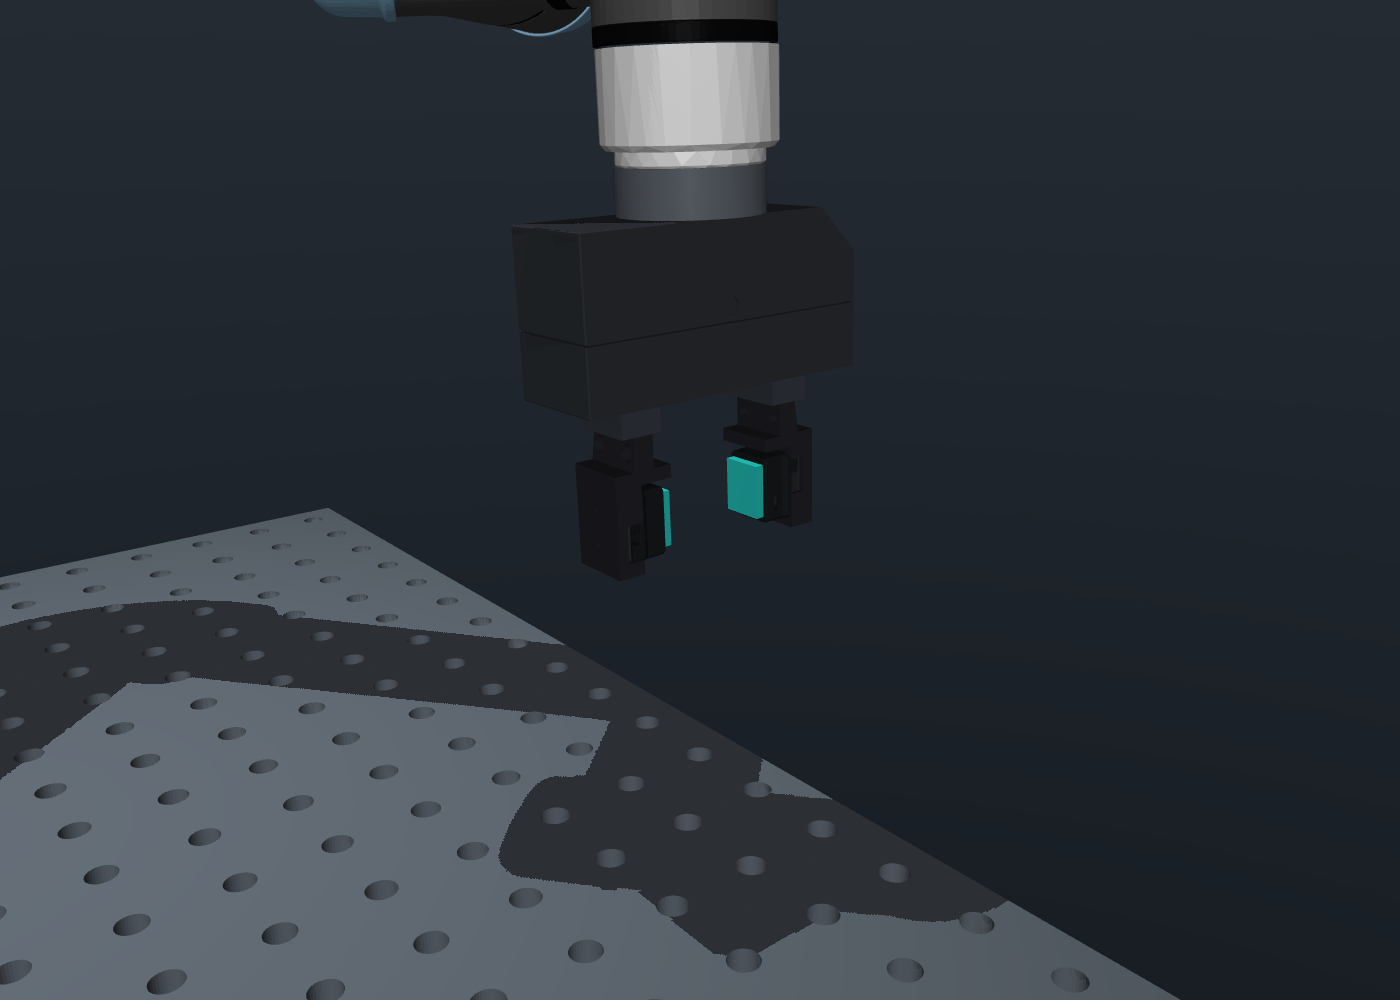
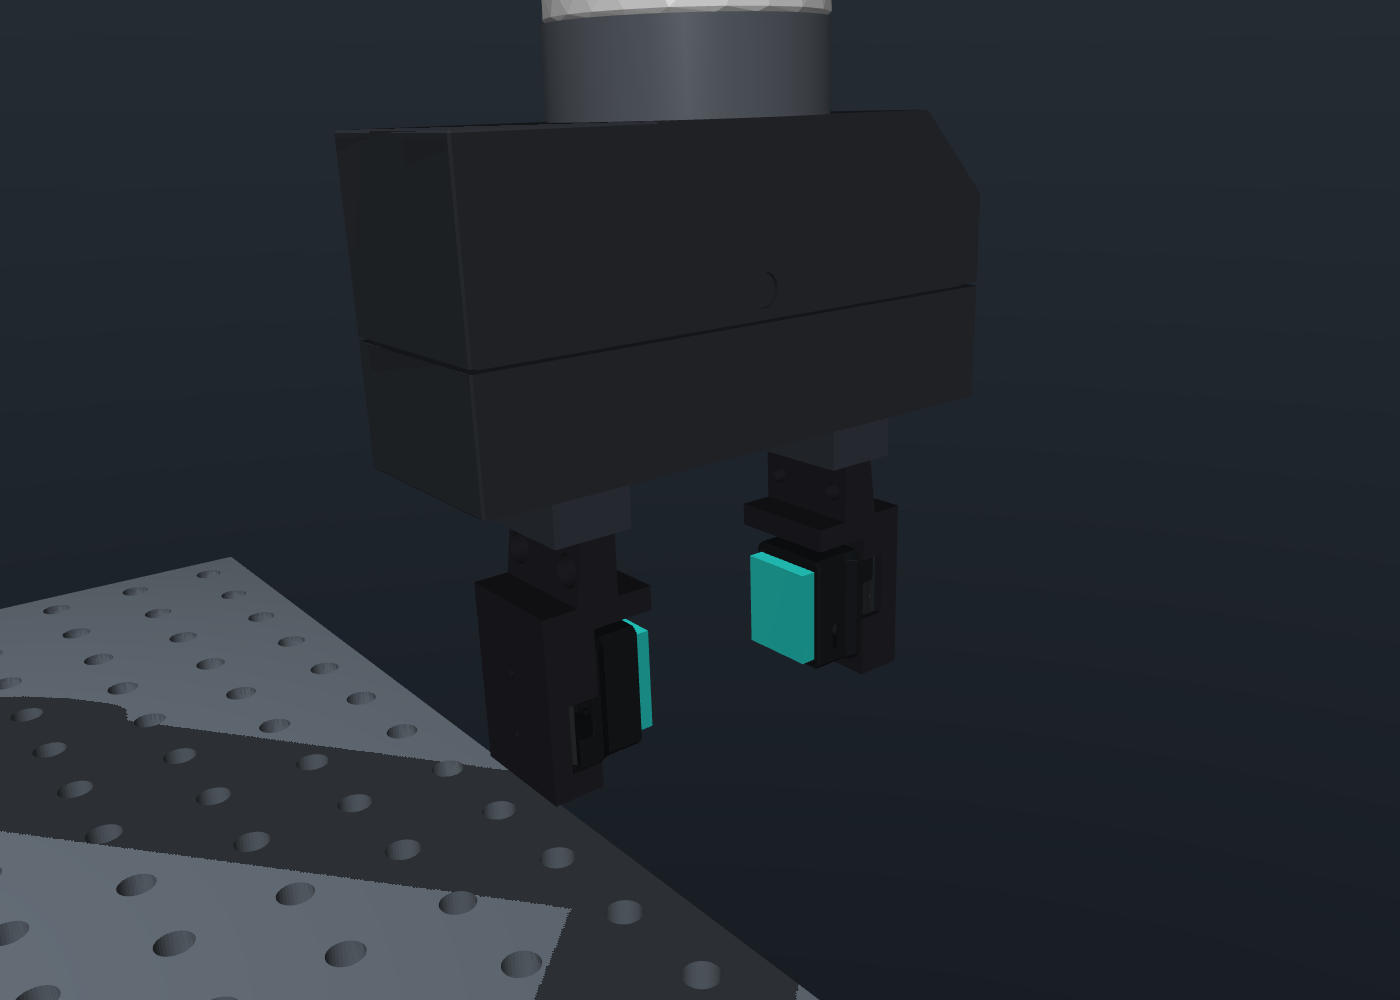
docs: feature GelSight close-up in Exp 2 gallery

diff --git a/scripts/view_scene.py b/scripts/view_scene.py
@@ -57,6 +57,9 @@ def main():
     elif args.view == "tool":
         camera.lookat[:] = data.site("tcp" if args.setup == 2 else "flange").xpos
         camera.distance, camera.azimuth, camera.elevation = 0.55, 140, -18
+        if args.setup == 2:
+            camera.lookat[:] = 0.75 * data.site("tcp").xpos + 0.25 * data.site("flange").xpos
+            camera.distance = 0.30
     elif args.view == "top":
         camera.lookat[:] = [0.6, -0.4, 0]
         camera.distance, camera.azimuth, camera.elevation = 1.55, 90, -89.9

diff --git a/README.md b/README.md
@@ -5,7 +5,7 @@ Reusable MuJoCo scenes and robot assets for manipulation experiments.
 | Experiment | Setup | Scene |
 |---|---|---|
 | [Exp 1](docs/setup_1.md) | UR5e, flange adapter, and WSG-50 on a Siegmund welding table | <img src="docs/images/exp1.png" alt="Experimental Setup 1" width="480"> |
-| [Exp 2](docs/setup_2.md) | Exp 1 with custom WSG-50 fingers and dual GelSight Mini sensors | <img src="docs/images/exp2.png" alt="Experimental Setup 2" width="480"> |
+| [Exp 2](docs/setup_2.md) | Exp 1 with custom WSG-50 fingers and dual GelSight Mini sensors | <img src="docs/images/exp2_tool.png" alt="Experimental Setup 2: GelSight close-up" width="480"> |
 | [Exp 3](docs/setup_3.md) | Dual UR10e with left/right HX5-D20 hands on two joined Siegmund welding tables | <img src="docs/images/exp3.png" alt="Experimental Setup 3" width="480"> |
 
 ```bash
